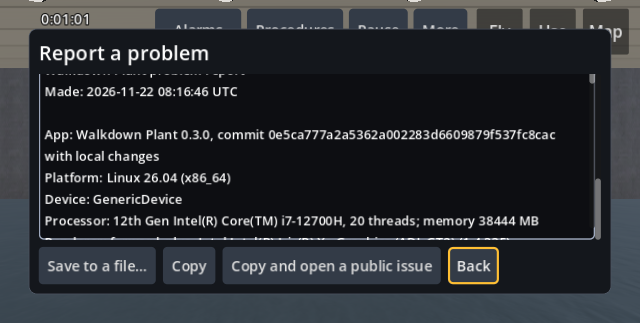
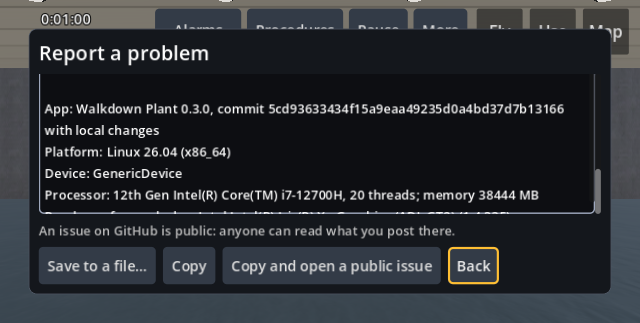
UX evidence: Report a problem (#446), round 6

diff --git a/MANIFEST.md b/MANIFEST.md
@@ -1,32 +1,32 @@
-# UX evidence: Report a problem (#446), round 5: Windows 11 VM
+# UX evidence: Report a problem (#446), round 6
 
-Synthetic (the invented plant), commit 43e92a716341936d54bc9a1a0f0cbdb6c2ee6842. Round 4's shots, plus the owner-asked Windows run (the user, 2026-11-22: "Run it on the Windows VM"): kks-win11 (Windows 10.0.26300, no GPU: Microsoft Basic Render Driver), a scratch x86-64 export of commit 43e92a71 with the switch on through override.cfg and a one-off driver script (never committed), started in the desktop session; win11_vm_results.txt is its log; win11_vm_save_dialog_behind_edge.png (the save dialog open, behind Edge's first-run screen, which the issue link opened) and win11_vm_after.png.
+Synthetic (the invented plant), commit 638c15d44fda96fedcb8fabf0a2db6cd7009ec49. `apps/plant3d/tests/report_shots.gd` at 638c15d4, switched on, OFFSCREEN_GODOT_DATA a folder of its own: desk_uidefault (1600x900, 100 %), desk_ui2 (1366x768, 200 %), phone_uidefault (2220x1080 phone layout), small640_desk_ui2 (640x360, --ui-size=2); states report_about, report_shown (the public-issue line beside the buttons, at 18), report_written, report_inputs, report_save_failed, report_copied. The win11_vm_* files are round 5's (an earlier commit); round 7 adds the re-run.
 
 ```
-4d37e692254af3709a541ba93048244fe85268e10e94128564e26450decdc1c8  desk_ui2_report_about.png
-ee2c46349b457805cadb2cf6a29ddeb192183266cd05989b95eb036fd911bbf3  desk_ui2_report_copied.png
-9f0833790050381d1aeb965f07e301be00dc820d172cc6bf424f57b3c434dacd  desk_ui2_report_inputs.png
-ad59810565bc5053f1a7f49c49e243740c54c719ad12a952b799a0a1a54bd264  desk_ui2_report_save_failed.png
-d03c7cf91f164eb5f2c9af77e46c06758ae5ac0929ab56d66b2d4621d7770a2e  desk_ui2_report_shown.png
-454e204dbea80ba65dbac28cc4304513df37705969df8def4dd585e51ef009eb  desk_ui2_report_written.png
-54a36af6dc986e2c633e4331f27d997e99ce7d71ba64ebcb0b779bee181f10d9  desk_uidefault_report_about.png
-e90a69def697cb4a9813cf59d6c5dddfd172430df406190dc69b0ec96135013e  desk_uidefault_report_copied.png
-930aa158c8c0170e256fe8871bb6ddd54928631c5369f45598acebdff35d4cb9  desk_uidefault_report_inputs.png
-f0909abd2f890eb39f108fab489c988ed312fa4b98a32deeac9d80776d28b032  desk_uidefault_report_save_failed.png
-d614b9658031fd332931a6a63e8f4b009fef107edbc4018e00813a466a082b72  desk_uidefault_report_shown.png
-f5f634fdcad006f5ba6e703e70ac6159f215a6cc3bcc60508dc487e9434b5fc1  desk_uidefault_report_written.png
-b49d18819887c4b3d92d768b658ccb4c85b3c2cb079c3b6ea5a2e004e6b08929  phone_uidefault_report_about.png
-e6b60ef1d9a9d5878283ce8f3d85e95d5b4d0ddcb0d40519e7ada7b161232fda  phone_uidefault_report_copied.png
-b05481a12cdbf2211e4851a1962cc0017e5bb46bc29d2f2b502c636eb84989ca  phone_uidefault_report_inputs.png
-462069c6182df5dc9632160cbb935abca6f2123bd6ad5508d974b44a0e082652  phone_uidefault_report_save_failed.png
-ef4ac59a9bad94ebafc79ea47db9006b9c1b6c11b747cfbdeaf508f2bfc8e10d  phone_uidefault_report_shown.png
-353aed5b263a250a0fb49856d150b7d35689355f17b87d05273ca02790e4382b  phone_uidefault_report_written.png
-d8482a52a525c8cb46310fdb70d952943b098ca6f4fd9c937f282d73fe4a2b75  small640_desk_ui2_report_about.png
-d6906e488aae35007c0565223563709b2577b2cf95c5d124c0a8c448401537d6  small640_desk_ui2_report_copied.png
-60cd5292c9a9f6b195ca75452aeeac95e0b8cf25bfaaf8b6845cfc0f7f0d3a62  small640_desk_ui2_report_inputs.png
-a1e975e595ac26a0d97bfc2f630751b14abbf7da7a27a96a27265317485d7489  small640_desk_ui2_report_save_failed.png
-467404cf38d6f899383c635f73d646e34be5e66ff7eed3745ec1dfdb3634b451  small640_desk_ui2_report_shown.png
-2448a7c83ddf840b5f35ae37634499d3ee2096469873b31458b46bb82adb9328  small640_desk_ui2_report_written.png
+25d73420b0cd52d65822efd290b3983b343b08249acbae9ce4c61b624d021ec9  desk_ui2_report_about.png
+74aac1971e11f5fdefc615709279bc3298d97004541864dfda1526f0fbedc56a  desk_ui2_report_copied.png
+9419a57cdadcb912c648dce3efdbc78030536845dd92d0fd3a6287b6847979e2  desk_ui2_report_inputs.png
+faac17f8e36fb2c3e81b475e52aa874ae54ab2d0eea4cbc2aa7da8df63390193  desk_ui2_report_save_failed.png
+58eea25103b4d2926e314d4e527cafac69ee027e67827cbdc391ade2f6a7d659  desk_ui2_report_shown.png
+4b4003b881729989e6ec05c6ea2af6f1b5f80e056610d91baf6eab023accaa13  desk_ui2_report_written.png
+dd842389f6cc76bf36981d12e4245ee9342f93b4808cb81b156f7822f28c73d3  desk_uidefault_report_about.png
+ca7564c8583a615b027e20681c5bc018e29bea935b4c3b69b512974dedb5d301  desk_uidefault_report_copied.png
+9287538b73ba56e1a202a671a65cd080461342f3b9800322f3c9131b56d70705  desk_uidefault_report_inputs.png
+f07c55a892d34bd8fd5d141e44e649810cc464ff259815dec9cc7ee55ed43835  desk_uidefault_report_save_failed.png
+b23a1874e175488132b4c15deb6d71379a0aee80d8ee2c530c34acf045c0abb3  desk_uidefault_report_shown.png
+0642073f70c057e42414e8eb4937f6602c95296171bcba3628c5697dd827738d  desk_uidefault_report_written.png
+844d97a442778f14aabf54ebb633cb1cb918a20a2c59f9f1ec70f4eb2e52062e  phone_uidefault_report_about.png
+bef276e0bc561252857488ca2526f70aea3afc88e1bfcf4382ec339c29658e5d  phone_uidefault_report_copied.png
+09b5d9a9c11928395d283be5e59fc8989e6f413e00aa368493cc04667c915f50  phone_uidefault_report_inputs.png
+925815c3c58b4ecf23933e5ff17a61c1b61f70fe430afd2a201fb54e07b0df41  phone_uidefault_report_save_failed.png
+faaba9dddbb331a4aa1b6a1691b5644d2133ae4518e8d5dc8bf4cd603d3a4e39  phone_uidefault_report_shown.png
+7804c7c36b7d4a77b1c060a463e7e156e38b7cac51b6185778c618bd8cf0aab4  phone_uidefault_report_written.png
+daf0172ac450ef44422ee157ddd4c0b422e200d194c8dac9500efb7f38e03a77  small640_desk_ui2_report_about.png
+c0f1ba291de2c52d767fa36085712511683d44a1ff4b7873e6188041d6533681  small640_desk_ui2_report_copied.png
+42dba48a049a221fa192d744d495120e31971ab100f413e003d502d76b3a8c45  small640_desk_ui2_report_inputs.png
+abe5470d901432472da87d76b388cb9c2654ebd60f816ee3ff63bd039dc8935b  small640_desk_ui2_report_save_failed.png
+d002db140735ae26154ff357886aba74c3bc0e46a9ffb21482fc2eb9bcabbccc  small640_desk_ui2_report_shown.png
+0e91fe489fa0d12e5bbf757c6b691ccc30e590ddf01f67ee49d0b8ab2c13a2f9  small640_desk_ui2_report_written.png
 870102034b44c703de56d0292e09c1c90a90bb1aec0e0c8aff96f01ef9bc3efa  win11_vm_after.png
 49220c0da2b8c7588e6dd7d74d351df90a41ad124801e42a6bac548b2aba440c  win11_vm_results.txt
 eb2ce9ac8236964e196f82cf3b9e686d49128f63c1d8c050d36a8507dd738c09  win11_vm_save_dialog_behind_edge.png
